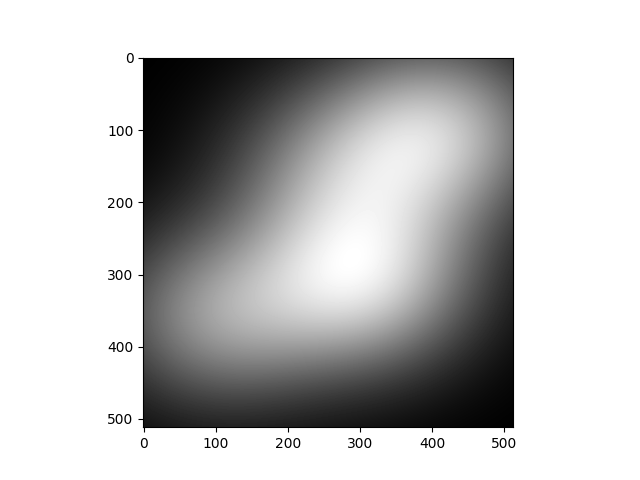
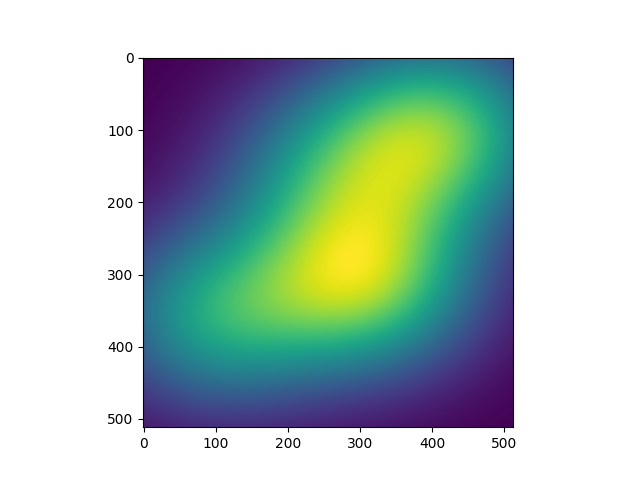
small fixes

diff --git a/homework/hw07/smooth.py b/homework/hw07/smooth.py
@@ -15,7 +15,7 @@ def main():
     N = 512
     os.makedirs("images", exist_ok=True)
     s = aomip.smooth(N)
-    plt.imshow(s, cmap="gray")
+    plt.imshow(s)
     plt.savefig("images/smooth.png")
 
 if __name__ == "__main__":

diff --git a/aomip/__init__.py b/aomip/__init__.py
@@ -6,3 +6,4 @@ from .power import *
 from .operator import *
 from .admm import *
 from .derivative import *
+from .smooth import *
